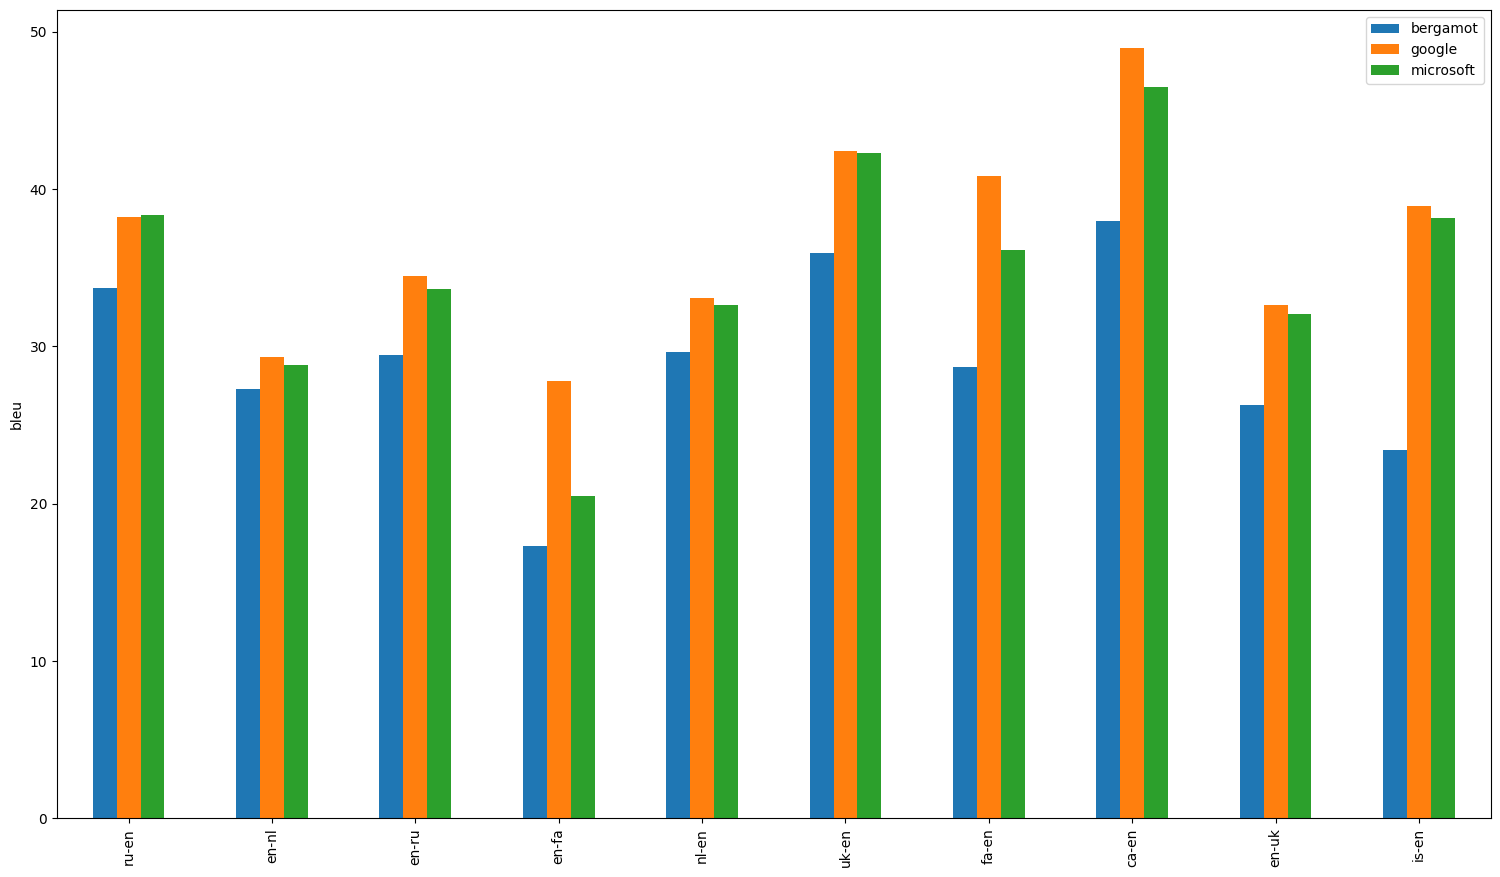
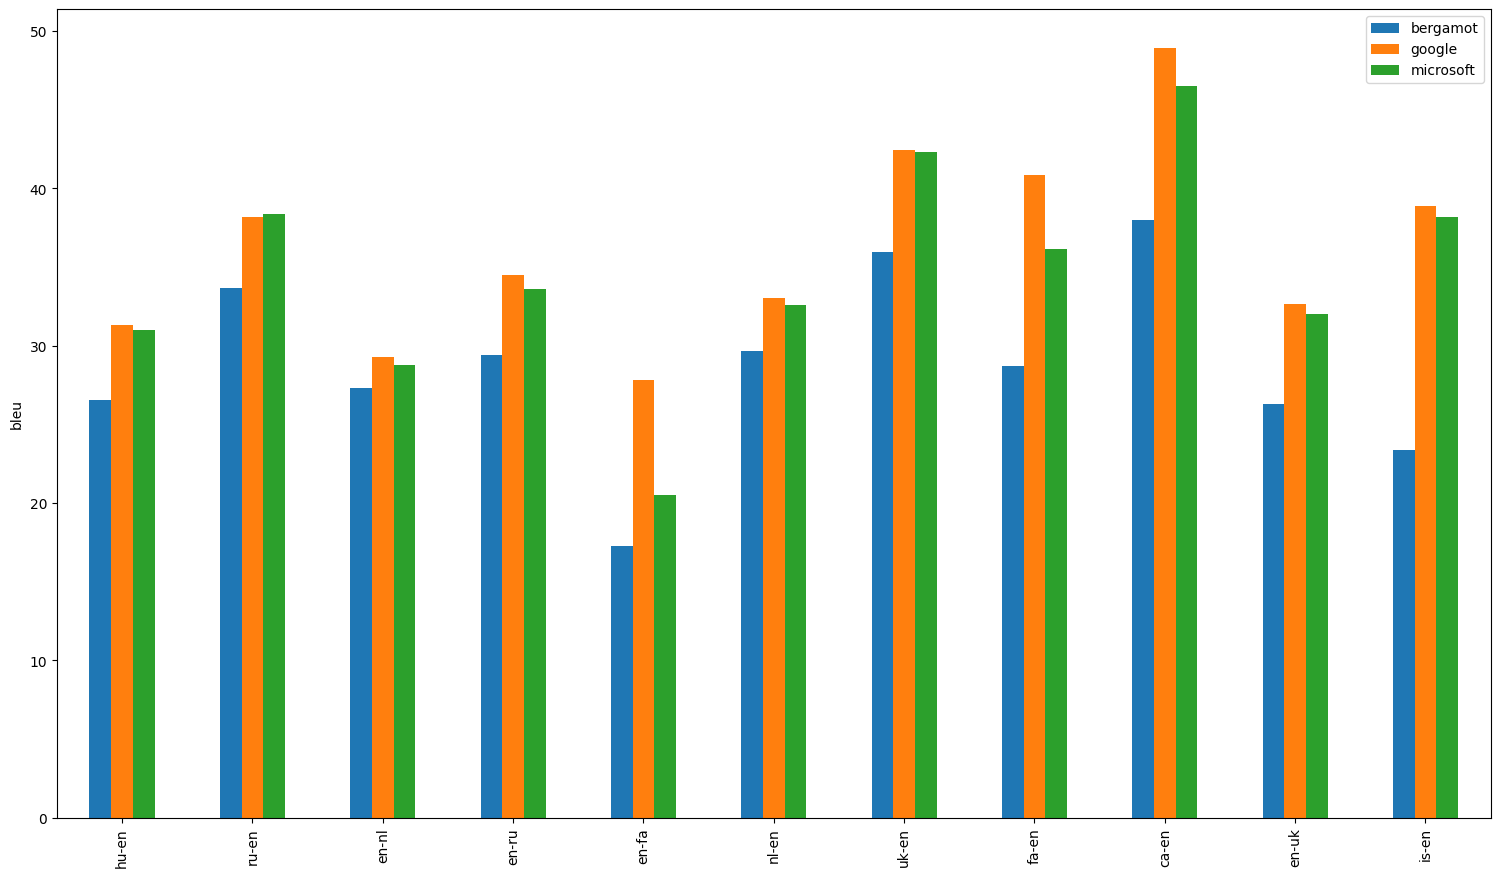
Update evaluation results [skip ci]

diff --git a/evaluation/dev/comet-results.md b/evaluation/dev/comet-results.md
@@ -48,13 +48,42 @@ We also compare the systems using the `comet-compare` tool that calculates the s
 
 ## avg
 
-| Translator/Dataset | ru-en | en-nl | en-ru | en-fa | nl-en | uk-en | fa-en | ca-en | en-uk | is-en |
-| --- | --- | --- | --- | --- | --- | --- | --- | --- | --- | --- |
-| bergamot | 0.49 | 0.58 | 0.54 | 0.31 | 0.63 | 0.52 | 0.50 | 0.65 | 0.51 | 0.15 |
-| google | 0.59 (+0.10, +20.83%) | 0.67 (+0.08, +14.30%) | 0.76 (+0.21, +39.38%) | 0.70 (+0.39, +126.54%) | 0.70 (+0.07, +10.71%) | 0.67 (+0.15, +28.26%) | 0.74 (+0.24, +48.00%) | 0.82 (+0.16, +24.78%) | 0.79 (+0.27, +53.31%) | 0.70 (+0.55, +370.91%) |
-| microsoft | 0.60 (+0.11, +22.13%) | 0.65 (+0.06, +11.05%) | 0.72 (+0.18, +32.36%) | 0.41 (+0.10, +31.65%) | 0.69 (+0.06, +9.12%) | 0.64 (+0.12, +23.16%) | 0.66 (+0.16, +32.78%) | 0.79 (+0.14, +21.22%) | 0.75 (+0.23, +45.60%) | 0.67 (+0.52, +353.71%) |
+| Translator/Dataset | hu-en | ru-en | en-nl | en-ru | en-fa | nl-en | uk-en | fa-en | ca-en | en-uk | is-en |
+| --- | --- | --- | --- | --- | --- | --- | --- | --- | --- | --- | --- |
+| bergamot | 0.56 | 0.49 | 0.58 | 0.54 | 0.31 | 0.63 | 0.52 | 0.50 | 0.65 | 0.51 | 0.15 |
+| google | 0.66 (+0.10, +17.32%) | 0.59 (+0.10, +20.83%) | 0.67 (+0.08, +14.30%) | 0.76 (+0.21, +39.38%) | 0.70 (+0.39, +126.54%) | 0.70 (+0.07, +10.71%) | 0.67 (+0.15, +28.26%) | 0.74 (+0.24, +48.00%) | 0.82 (+0.16, +24.78%) | 0.79 (+0.27, +53.31%) | 0.70 (+0.55, +370.91%) |
+| microsoft | 0.66 (+0.10, +17.85%) | 0.60 (+0.11, +22.13%) | 0.65 (+0.06, +11.05%) | 0.72 (+0.18, +32.36%) | 0.41 (+0.10, +31.65%) | 0.69 (+0.06, +9.12%) | 0.64 (+0.12, +23.16%) | 0.66 (+0.16, +32.78%) | 0.79 (+0.14, +21.22%) | 0.75 (+0.23, +45.60%) | 0.67 (+0.52, +353.71%) |
 
 ![Results](img/avg-comet.png)
+---
+
+## hu-en
+
+| Translator/Dataset | wmt08 | flores-test | wmt09 | flores-dev |
+| --- | --- | --- | --- | --- |
+| bergamot | 0.44 | 0.66 | 0.47 | 0.68 |
+| google | 0.54 (+0.10, +22.47%) | 0.76 (+0.10, +15.46%) | 0.57 (+0.10, +20.66%) | 0.77 (+0.09, +13.48%) |
+| microsoft | 0.55 (+0.11, +23.95%) | 0.76 (+0.10, +15.33%) | 0.57 (+0.10, +21.81%) | 0.77 (+0.09, +13.63%) |
+
+![Results](img/hu-en-comet.png)
+### Comparisons between systems
+*If a comparison is omitted, the systems have equal averages (tie). Click on the dataset for a complete report*
+#### [wmt08.hu-en](hu-en/wmt08.hu-en.cometcompare)
+- wmt08.microsoft.en outperforms wmt08.bergamot.en.
+- wmt08.google.en outperforms wmt08.bergamot.en.
+
+#### [flores-test.hu-en](hu-en/flores-test.hu-en.cometcompare)
+- flores-test.microsoft.en outperforms flores-test.bergamot.en.
+- flores-test.google.en outperforms flores-test.bergamot.en.
+
+#### [wmt09.hu-en](hu-en/wmt09.hu-en.cometcompare)
+- wmt09.microsoft.en outperforms wmt09.bergamot.en.
+- wmt09.google.en outperforms wmt09.bergamot.en.
+
+#### [flores-dev.hu-en](hu-en/flores-dev.hu-en.cometcompare)
+- flores-dev.microsoft.en outperforms flores-dev.bergamot.en.
+- flores-dev.google.en outperforms flores-dev.bergamot.en.
+
 ---
 
 ## ru-en

diff --git a/evaluation/dev/bleu-results.md b/evaluation/dev/bleu-results.md
@@ -56,13 +56,24 @@ Both absolute and relative differences in BLEU scores between Bergamot and other
 
 ## avg
 
-| Translator/Dataset | ru-en | en-nl | en-ru | en-fa | nl-en | uk-en | fa-en | ca-en | en-uk | is-en |
-| --- | --- | --- | --- | --- | --- | --- | --- | --- | --- | --- |
-| bergamot | 33.69 | 27.30 | 29.44 | 17.30 | 29.65 | 35.93 | 28.70 | 38.00 | 26.30 | 23.40 |
-| google | 38.20 (+4.51, +13.38%) | 29.30 (+2.00, +7.33%) | 34.49 (+5.05, +17.15%) | 27.80 (+10.50, +60.69%) | 33.05 (+3.40, +11.47%) | 42.43 (+6.50, +18.09%) | 40.85 (+12.15, +42.33%) | 48.95 (+10.95, +28.82%) | 32.63 (+6.33, +24.08%) | 38.90 (+15.50, +66.24%) |
-| microsoft | 38.38 (+4.68, +13.90%) | 28.80 (+1.50, +5.49%) | 33.62 (+4.18, +14.21%) | 20.50 (+3.20, +18.50%) | 32.60 (+2.95, +9.95%) | 42.30 (+6.37, +17.72%) | 36.15 (+7.45, +25.96%) | 46.50 (+8.50, +22.37%) | 32.03 (+5.73, +21.80%) | 38.17 (+14.77, +63.11%) |
+| Translator/Dataset | hu-en | ru-en | en-nl | en-ru | en-fa | nl-en | uk-en | fa-en | ca-en | en-uk | is-en |
+| --- | --- | --- | --- | --- | --- | --- | --- | --- | --- | --- | --- |
+| bergamot | 26.53 | 33.69 | 27.30 | 29.44 | 17.30 | 29.65 | 35.93 | 28.70 | 38.00 | 26.30 | 23.40 |
+| google | 31.30 (+4.77, +18.00%) | 38.20 (+4.51, +13.38%) | 29.30 (+2.00, +7.33%) | 34.49 (+5.05, +17.15%) | 27.80 (+10.50, +60.69%) | 33.05 (+3.40, +11.47%) | 42.43 (+6.50, +18.09%) | 40.85 (+12.15, +42.33%) | 48.95 (+10.95, +28.82%) | 32.63 (+6.33, +24.08%) | 38.90 (+15.50, +66.24%) |
+| microsoft | 31.03 (+4.50, +16.97%) | 38.38 (+4.68, +13.90%) | 28.80 (+1.50, +5.49%) | 33.62 (+4.18, +14.21%) | 20.50 (+3.20, +18.50%) | 32.60 (+2.95, +9.95%) | 42.30 (+6.37, +17.72%) | 36.15 (+7.45, +25.96%) | 46.50 (+8.50, +22.37%) | 32.03 (+5.73, +21.80%) | 38.17 (+14.77, +63.11%) |
 
 ![Results](img/avg-bleu.png)
+---
+
+## hu-en
+
+| Translator/Dataset | wmt08 | flores-dev | flores-test | wmt09 |
+| --- | --- | --- | --- | --- |
+| bergamot | 20.00 | 32.20 | 31.60 | 22.30 |
+| google | 22.40 (+2.40, +12.00%) | 39.40 (+7.20, +22.36%) | 38.00 (+6.40, +20.25%) | 25.40 (+3.10, +13.90%) |
+| microsoft | 22.60 (+2.60, +13.00%) | 38.50 (+6.30, +19.57%) | 38.20 (+6.60, +20.89%) | 24.80 (+2.50, +11.21%) |
+
+![Results](img/hu-en-bleu.png)
 ---
 
 ## ru-en
